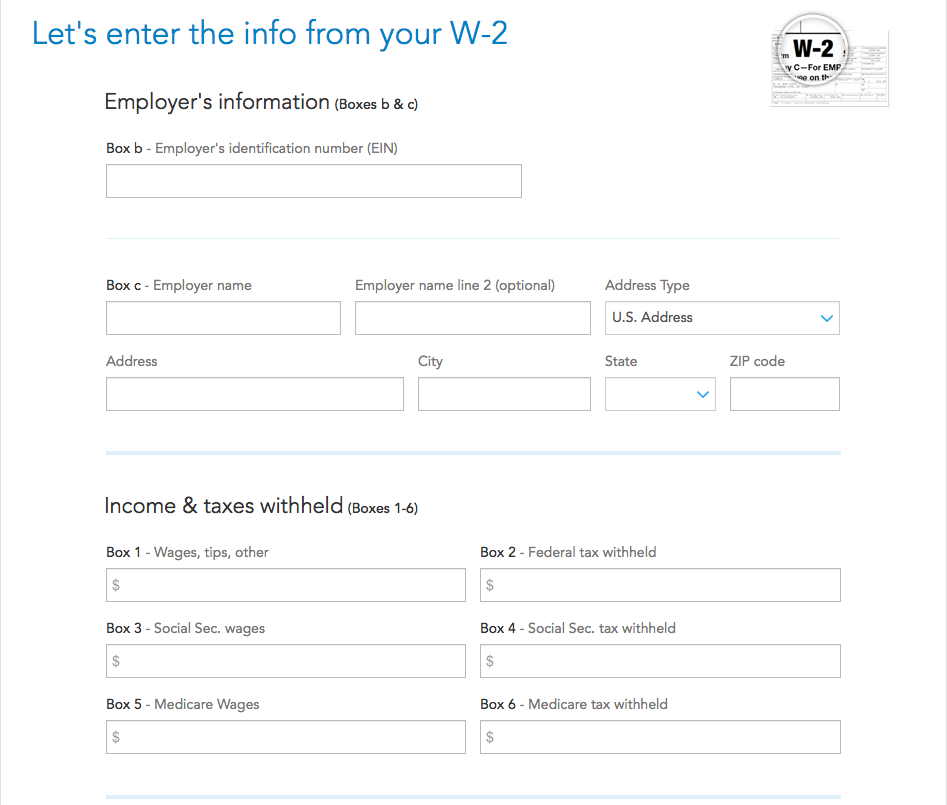
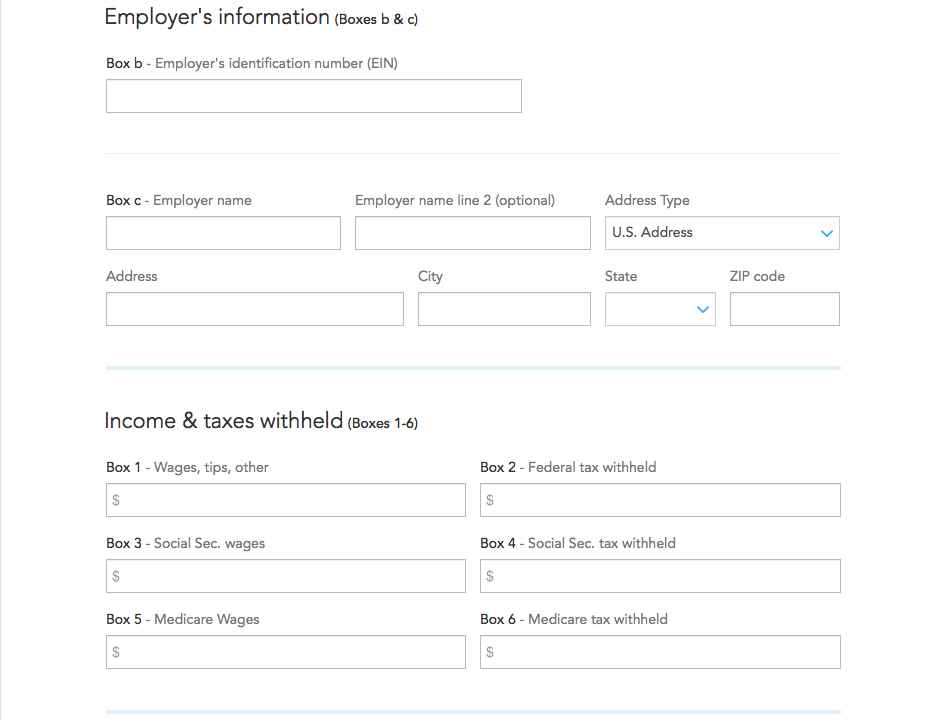
Set the layout for each W-2 page and removed the background colors.

diff --git a/ddteApp/AppDelegate.mm b/ddteApp/AppDelegate.mm
@@ -314,7 +314,7 @@ bool configureHTTPRequestURLAndData(int caseIndex, std::string& url, std::string
         goToNext = NO;
     }
     [self setNextViewController:goToNext];
-    NSRect rect = CGRectMake(0, 0, 1200, 740);
+    NSRect rect = CGRectMake(40, -30, 1200, 720);
     [self.currentController.view setFrame:rect];
     [self.window.contentView addSubview:self.currentController.view];
 }

diff --git a/ddteApp/Views/W2View1.m b/ddteApp/Views/W2View1.m
@@ -14,8 +14,8 @@
     [super drawRect:dirtyRect];
     
     // Drawing code here.
-    [[NSColor yellowColor] set];
-    NSRectFill([self bounds]);
+//    [[NSColor yellowColor] set];
+//    NSRectFill([self bounds]);
 }
 
 @end

diff --git a/ddteApp/Views/W2View3.m b/ddteApp/Views/W2View3.m
@@ -14,8 +14,8 @@
     [super drawRect:dirtyRect];
     
     // Drawing code here.
-    [[NSColor orangeColor] set];
-    NSRectFill([self bounds]);
+//    [[NSColor orangeColor] set];
+//    NSRectFill([self bounds]);
 }
 
 @end

diff --git a/ddteApp/Views/W2View2.m b/ddteApp/Views/W2View2.m
@@ -14,8 +14,8 @@
     [super drawRect:dirtyRect];
     
     // Drawing code here.
-    [[NSColor greenColor] set];
-    NSRectFill([self bounds]);
+//    [[NSColor greenColor] set];
+//    NSRectFill([self bounds]);
 }
 
 @end
